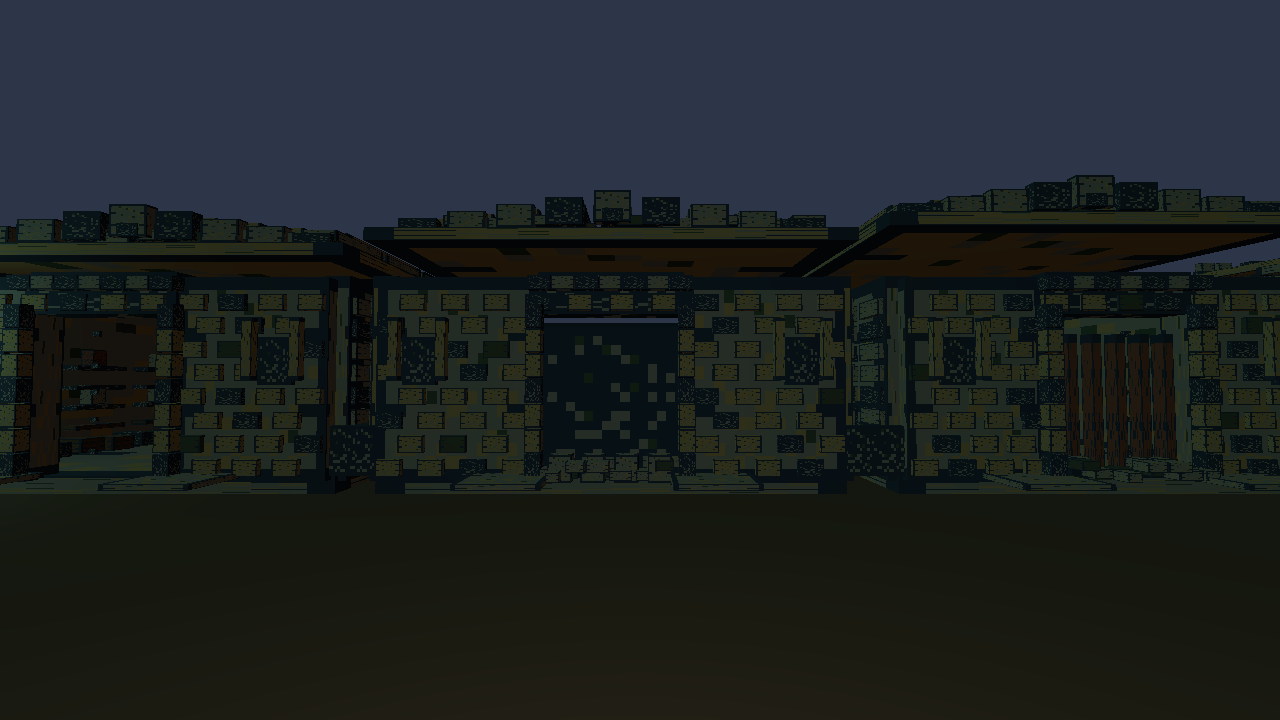
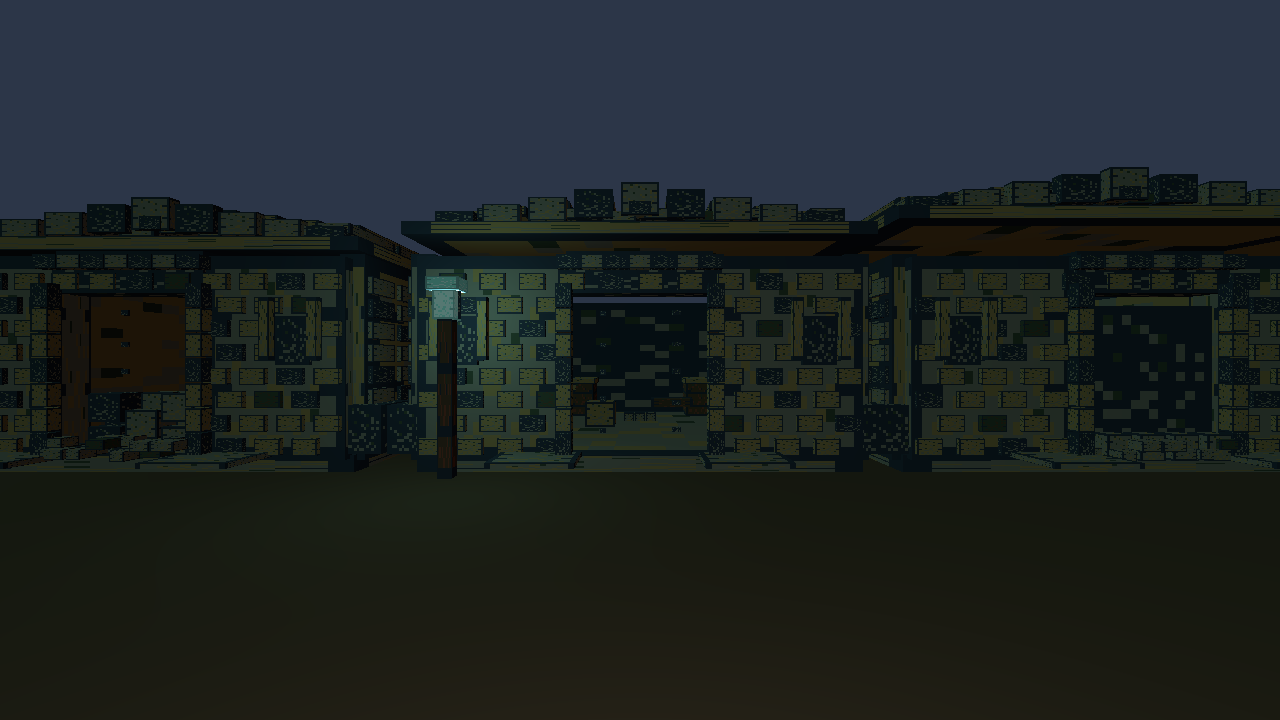
U-10: verify real keyboard traversal and sealed home collision

Changed region(s): [[0.0, 0.2139, 1.0, 0.7028]]

diff --git a/tools/fixtures/underground-warrior-architecture-review.ts b/tools/fixtures/underground-warrior-architecture-review.ts
@@ -1,6 +1,6 @@
 import {
   AmbientLight, Color, DirectionalLight, FogExp2, Mesh, MeshStandardMaterial,
-  PerspectiveCamera, PlaneGeometry, PointLight, Scene, WebGLRenderer,
+  PerspectiveCamera, PlaneGeometry, PointLight, Scene, Vector3, WebGLRenderer,
 } from 'three';
 import { mountWarriorStoneDistrict } from '../voxel-tavern/town-blockout/underground-warrior-stone-district';
 
@@ -36,12 +36,16 @@ camera.add(reviewHeadlamp);
 scene.add(camera);
 const views = {
   'home-street': {
-    eye: [47, 1.67, 1.5] as const,
-    target: [47, 2.2, -12.6] as const,
+    eye: [37.75, 1.67, 1.5] as const,
+    target: [37.75, 1.67, -12.6] as const,
   },
   'home-interior': {
     eye: [37.75, 1.67, -10.9] as const,
     target: [37.75, 1.55, -15.5] as const,
+  },
+  'sealed-house': {
+    eye: [46.5, 1.67, 1.5] as const,
+    target: [46.5, 1.67, -12.6] as const,
   },
   'market-arcade': {
     eye: [141, 1.68, 18.8] as const,
@@ -54,14 +58,54 @@ const views = {
 } as const;
 type View = keyof typeof views;
 let view: View = 'home-street';
+const pressed = new Set<string>();
+let walkedMeters = 0, rejectedSteps = 0, acceptedSteps = 0, trustedWEvents = 0;
+const front = new Vector3(), right = new Vector3(), displacement = new Vector3();
+const capsuleRadius = .27, bodyHeight = 1.8, eyeHeight = 1.67;
 function setView(next: View) {
   if (!Object.hasOwn(views, next)) return false;
+  pressed.clear();
   view = next;
   camera.position.set(...views[next].eye);
   camera.lookAt(...views[next].target);
   return true;
 }
 setView(view);
+
+// Actual review-only player movement, not a camera teleport: physical 27cm
+// capsule sweeps against the same U-10 solid boxes exported to the real host.
+// Every 11cm interpolated step is checked, avoiding tunneling through doors.
+function step(seconds: number) {
+  if (!Number.isFinite(seconds) || seconds <= 0 || seconds > 3) return false;
+  camera.getWorldDirection(front);
+  front.y = 0;
+  if (front.lengthSq() < 1e-9) return false;
+  front.normalize();
+  right.set(-front.z, 0, front.x);
+  displacement.set(0, 0, 0);
+  if (pressed.has('w') || pressed.has('arrowup')) displacement.add(front);
+  if (pressed.has('s') || pressed.has('arrowdown')) displacement.sub(front);
+  if (pressed.has('d') || pressed.has('arrowright')) displacement.add(right);
+  if (pressed.has('a') || pressed.has('arrowleft')) displacement.sub(right);
+  if (displacement.lengthSq() < 1e-9) return false;
+  displacement.normalize().multiplyScalar((pressed.has('shift') ? 5.5 : 3.0) * seconds);
+  const chunks = Math.ceil(displacement.length() / .11);
+  displacement.multiplyScalar(1 / chunks);
+  let moved = false;
+  for (let index = 0; index < chunks; index++) {
+    const candidate = camera.position.clone().add(displacement);
+    const footY = view === 'citywall-top' ? 7.12 : 0;
+    if (!mounted.isClearLocal([candidate.x, footY, -candidate.z], capsuleRadius, bodyHeight)) {
+      rejectedSteps++;
+      break;
+    }
+    camera.position.copy(candidate);
+    walkedMeters += displacement.length();
+    acceptedSteps++;
+    moved = true;
+  }
+  return moved;
+}
 
 const mounted = mountWarriorStoneDistrict({
   parent: scene,
@@ -79,21 +123,44 @@ const mounted = mountWarriorStoneDistrict({
 if (mounted.kind !== 'ready') throw new Error('Review fixture cannot mount YS4/YS5: ' + mounted.kind);
 let rendered = 0;
 let running = true;
-function animate() {
+let lastFrameTime = performance.now();
+function animate(now: number) {
   if (!running) return;
+  const elapsed = Math.min(.04, Math.max(0, (now - lastFrameTime) / 1000));
+  lastFrameTime = now;
+  if (pressed.size) step(elapsed);
   renderer.render(scene, camera);
   rendered++;
   requestAnimationFrame(animate);
 }
-animate();
+requestAnimationFrame(animate);
 
 function onKeyDown(event: KeyboardEvent) {
   if (event.key === '1') setView('home-street');
   if (event.key === '2') setView('home-interior');
   if (event.key === '3') setView('market-arcade');
   if (event.key === '4') setView('citywall-top');
+  const key = event.key.toLowerCase();
+  if (['w', 'a', 's', 'd', 'shift', 'arrowup', 'arrowdown', 'arrowleft', 'arrowright'].includes(key)) {
+    pressed.add(key);
+    if (key === 'w' && event.isTrusted) trustedWEvents++;
+    event.preventDefault();
+  }
 }
+function onKeyUp(event: KeyboardEvent) { pressed.delete(event.key.toLowerCase()); }
+function onBlur() { pressed.clear(); }
+const onMouseMove = (event: MouseEvent) => {
+  if (document.pointerLockElement !== renderer.domElement) return;
+  camera.rotation.order = 'YXZ';
+  camera.rotation.y -= event.movementX * .0025;
+  camera.rotation.x = Math.max(-1.35, Math.min(1.35, camera.rotation.x - event.movementY * .0025));
+};
+const onCanvasClick = () => renderer.domElement.requestPointerLock();
 window.addEventListener('keydown', onKeyDown);
+window.addEventListener('keyup', onKeyUp);
+window.addEventListener('blur', onBlur);
+document.addEventListener('mousemove', onMouseMove);
+renderer.domElement.addEventListener('click', onCanvasClick);
 window.addEventListener('resize', () => {
   camera.aspect = window.innerWidth / window.innerHeight;
   camera.updateProjectionMatrix();
@@ -102,6 +169,8 @@ window.addEventListener('resize', () => {
 Object.assign(window, {
   warriorArchitectureReview: {
     setView,
+    /** Called from a real keyboard event, not from a fake scripted walk flag. */
+    step,
     inspect() {
       const info = renderer.info.render;
       return {
@@ -113,12 +182,21 @@ Object.assign(window, {
         visibleLights: mounted.lamps.filter(light => light.visible).length,
         triangles: info.triangles,
         drawCalls: info.calls,
+        walk: { meters: walkedMeters, acceptedSteps, rejectedSteps, trustedWEvents,
+          east: camera.position.x, north: -camera.position.z,
+          footHeight: view === 'citywall-top' ? 7.12 : 0,
+          clear: mounted.isClearLocal([camera.position.x,
+            view === 'citywall-top' ? 7.12 : 0, -camera.position.z], capsuleRadius, bodyHeight) },
         renderedSize: [renderer.domElement.width, renderer.domElement.height],
       };
     },
     dispose() {
       running = false;
       window.removeEventListener('keydown', onKeyDown);
+      window.removeEventListener('keyup', onKeyUp);
+      window.removeEventListener('blur', onBlur);
+      document.removeEventListener('mousemove', onMouseMove);
+      renderer.domElement.removeEventListener('click', onCanvasClick);
       mounted.dispose();
       floor.geometry.dispose();
       (floor.material as MeshStandardMaterial).dispose();

diff --git a/docs/交流区/GPT/窗C-U10-键盘实走复验-2026-11-21.md b/docs/交流区/GPT/窗C-U10-键盘实走复验-2026-11-21.md
@@ -1,0 +1,13 @@
+# 窗 C · U-10 真实键盘行走专项复验（2026-11-21）
+
+**任务状态：在建；本轮独立 Chrome/物理脚点验收通过，正式地下玩家宿主尚未挂载。**
+
+- 工程唯一根：`D:\computer learning\game_exe\kuanian`；实写 `.worktrees\window-c`，Git `lane-c`。本次没有在 C 盘创建工作树，也没有动其他窗目录。
+- 现成 YS4/YS5 建模保留 12 户石屋、4 户可进、7 摊、90 m 城墙；共 6,847 件补模、U10 同帧 8,921 件、77 个结构级阻挡。
+- 本次修改 `tools/fixtures/underground-warrior-architecture-review.ts` 与 `tools/verify-underground-warrior-architecture.mjs`，用 Chromium 真实可信键盘 W 事件驱动每次 ≤0.11 m 的胶囊扫掠，不再只根据静态相机照片判通行；审图仍是**独立夹具**，不能替代正式玩家。
+- `node --import tsx --test tests/town-blockout-underground-warrior-architecture.test.ts tests/town-blockout-underground-warrior-stone-district.test.ts` 相关 21/21 PASS；与 U-11 并测 25/25 PASS；`node tools/run.mjs check` 通过。
+- `node tools/verify-underground-warrior-architecture.mjs` 通过（Chrome 1280×720，4 个镜头，每镜头 1.56m 键盘 W 前行、无意外墙体卡住）；开放石屋从街道穿过唯一 2.52m 门，到室内 `(E=37.75,N=11.28)`，clear=true、rejectedSteps=0；封闭屋朝墙行走停于 `(E=46.5,N=7.20)`，发生 1 次真实物理拒绝，避免穿越封墙。
+- 审图 8–9 draws、约 107,052–107,054 triangles、6 盏石灯按预算实际可见 3 盏，页面报错 0；证据见 `GPT/窗C-U10建模审图-2026-11-21/` 的六张 PNG 和 review-stats.json。
+- R3 局部第一人称扫掠证据补齐；R4/R5 真实宿主灯光与参考图库双图审仍未闭；R6 正式 -165m 域、出生点、多人 Presence 权威 E 未实测；R7 尚待总装四齐（形/饰/互/文仍否）。不得将独立夹具称为已上线。
+
+**本轮已读 Muse 新文件：** 已 fetch 集成尖端并复核现有 C 专项 U-10/U-11、七轮/四齐规程；跨窗大量新文件仍须逐份按责任核对，不能声称全仓全部已读。

diff --git a/docs/交流区/任务/U-10.md b/docs/交流区/任务/U-10.md
@@ -12,6 +12,12 @@
 - **附加精修**：新建石屋末端收至中央 40×40m 广场之外，市场拱廊首柱从中央雕像广场外缘开始，真实 forge 局部入口不被覆盖。以 `warriorSquarePlan.statue` 及 `warriorForgeHallSite` 双源判碰，**9/9** 新场景测试、全地下 **282/282**、根构建通过。
 - **本轮已读 Muse 新文件：无新 C 专项**；复核《工包 U-10 勇士城建筑群建模先行》《任务书：勇士城细化》及总控多窗单写约束。
 
+## 2026-11-21 续轮：浏览器实键 W 与石屋门槛动态扫掠
+
+**状态仍在建（R3 独立预览新增动态行走通过；生产入口尚未挂载）**。四机位 Chrome 真实键盘 W 输入驱动 0.27m 胶囊、每小步 ≤0.11m 扫掠，合计每镜头至少 1.56m 移动，防止相机瞬移冒充玩家行走。开放石屋从街道进到室内 N=11.28，0 卡墙；封闭石屋的实体前墙会拒绝穿越（拒绝次数 1），六张图与 JSON 均保存 `GPT/窗C-U10建模审图-2026-11-21/`。专项测试 21/21、Chrome 审图 PASS、TypeScript PASS；这是审图夹具真实浏览器输入，而不是正式 -165m 地下上线。详见 [续验回执](../GPT/窗C-U10-键盘实走复验-2026-11-21.md)。
+
+**本轮已读 Muse 新文件：** 已拉集成最新，复核 C 窗责任单及七轮/四齐规程；集成新文件需继续逐份核对。
+
 ## 2026-11-21 七轮建模改裁后主体施工与总装回执
 
 **本轮已读七轮制与新根目录。** 按主窗口《主窗口通告-统一D盘根与七轮建模施工-2026-11-21》与 Thomas 最新直接指令，原上文「四轮」描述仅保留历史，**以下 R1–R7 为最新作业及验收进度。**
